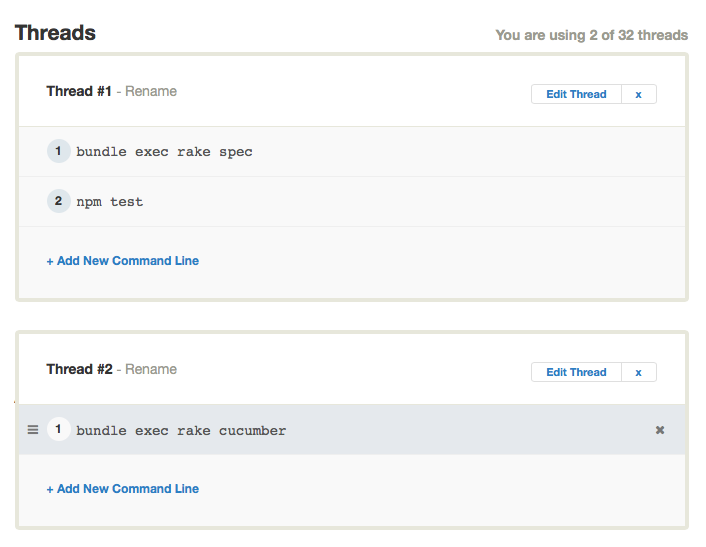
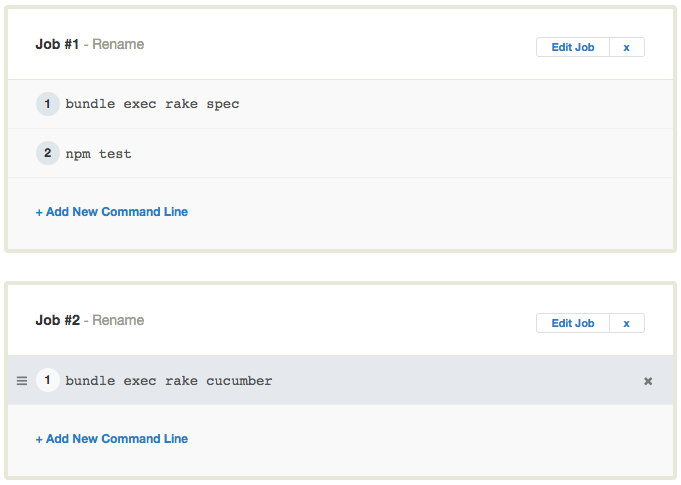
Update screenshots

diff --git a/source/docs/running-tests-in-parallel.md b/source/docs/running-tests-in-parallel.md
@@ -25,21 +25,21 @@ for the front end. Your build settings might look similar to this:
 Here's what you need to do to run RSpec, Cucumber and JavaScript tests in parallel.
 First, add a new "Parallel job" near the bottom of the screen:
 
-<img src="/docs/assets/img/running-tests-in-parallel/adding-parallel-thread.png" class="img-responsive">
+<img src="/docs/assets/img/running-tests-in-parallel/adding-parallel-job.png" class="img-responsive">
 
 A new job block will appear, with an input field to enter a build command.
 Since in this example all the commands we want to run have already been entered,
 we'll press the Escape key, and drag and drop the `bundle exec rake cucumber`
 command into our new job:
 
-<img src="/docs/assets/img/running-tests-in-parallel/dragging-command.png" class="img-bordered-padding img-responsive">
+<img src="/docs/assets/img/running-tests-in-parallel/dragging-command.png" class="img-responsive">
 
 You can now rename the job from "Job #2" to "Cucumber" in order to be able to
 differentiate between jobs more easily later. This text will also appear on
 the pages showing build results. To rename the job, click on "Rename" next to
 "Job #2", enter your prefered name, and press Return.
 
-<img src="/docs/assets/img/running-tests-in-parallel/renaming-thread.png" class="img-bordered-padding img-responsive">
+<img src="/docs/assets/img/running-tests-in-parallel/renaming-job.png" class="img-responsive">
 
 Repeating the same for `npm test` gives us a 3-job setup, as shown on the
 following screenshot:
